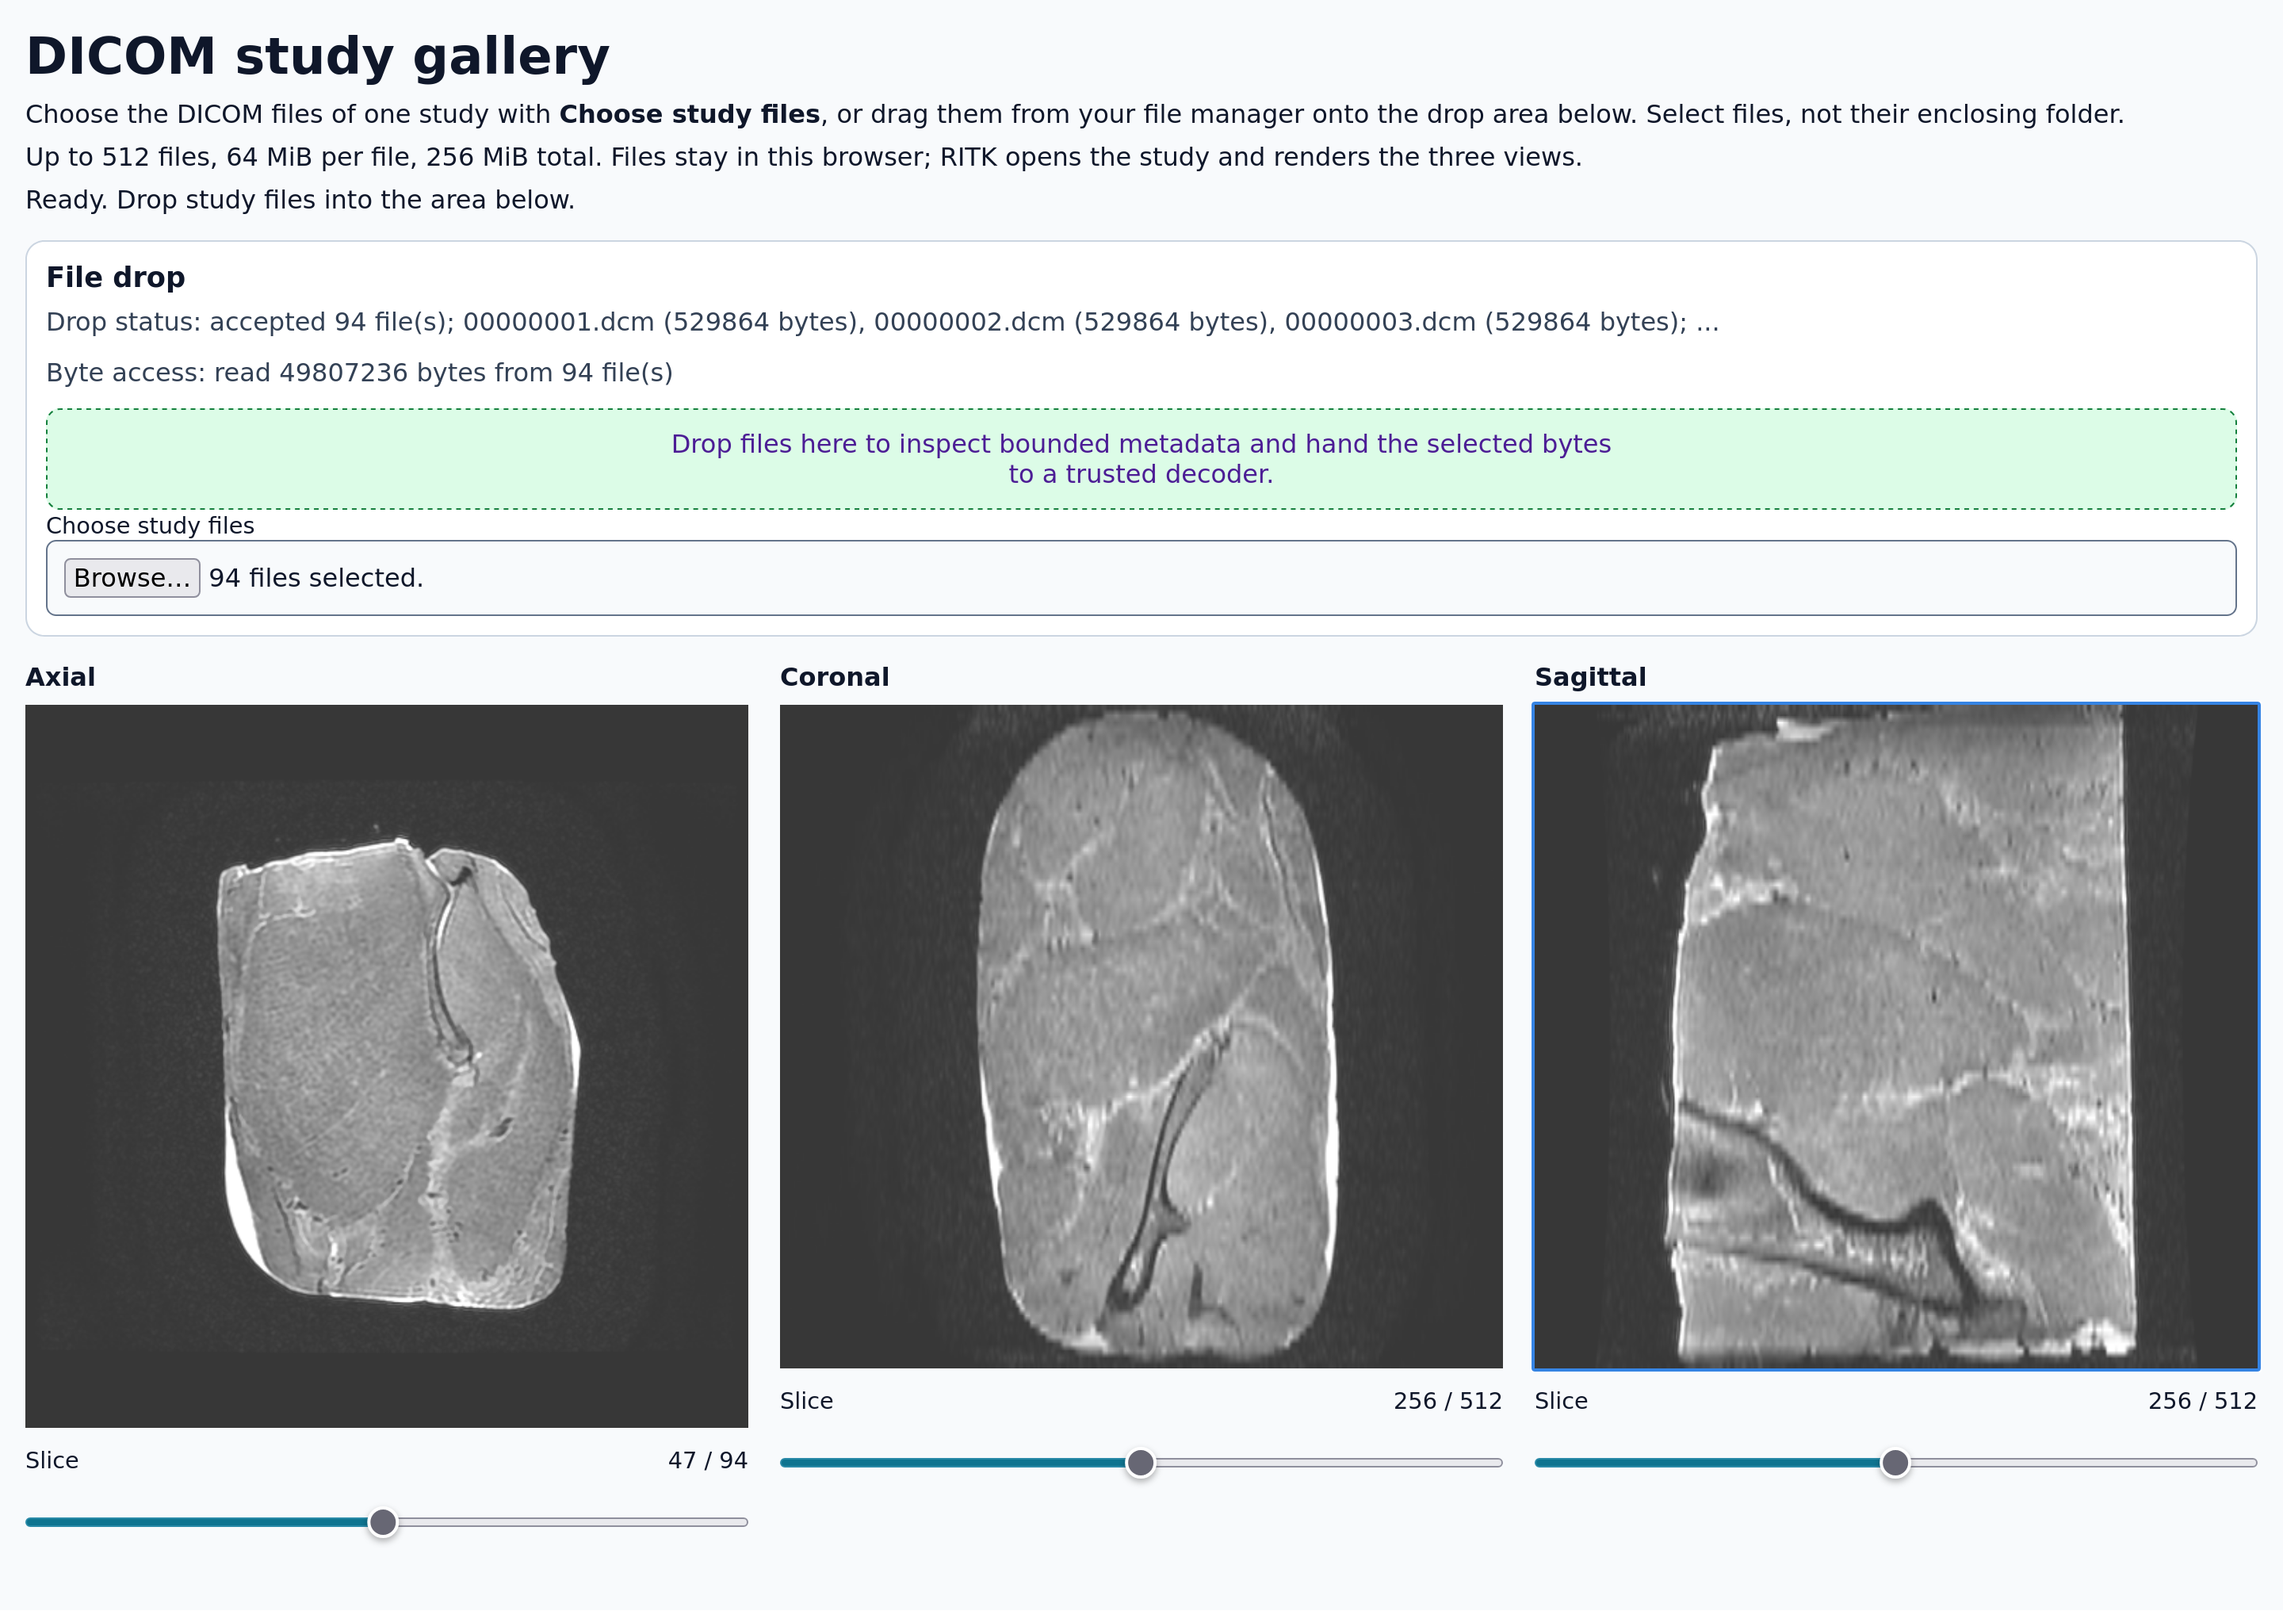
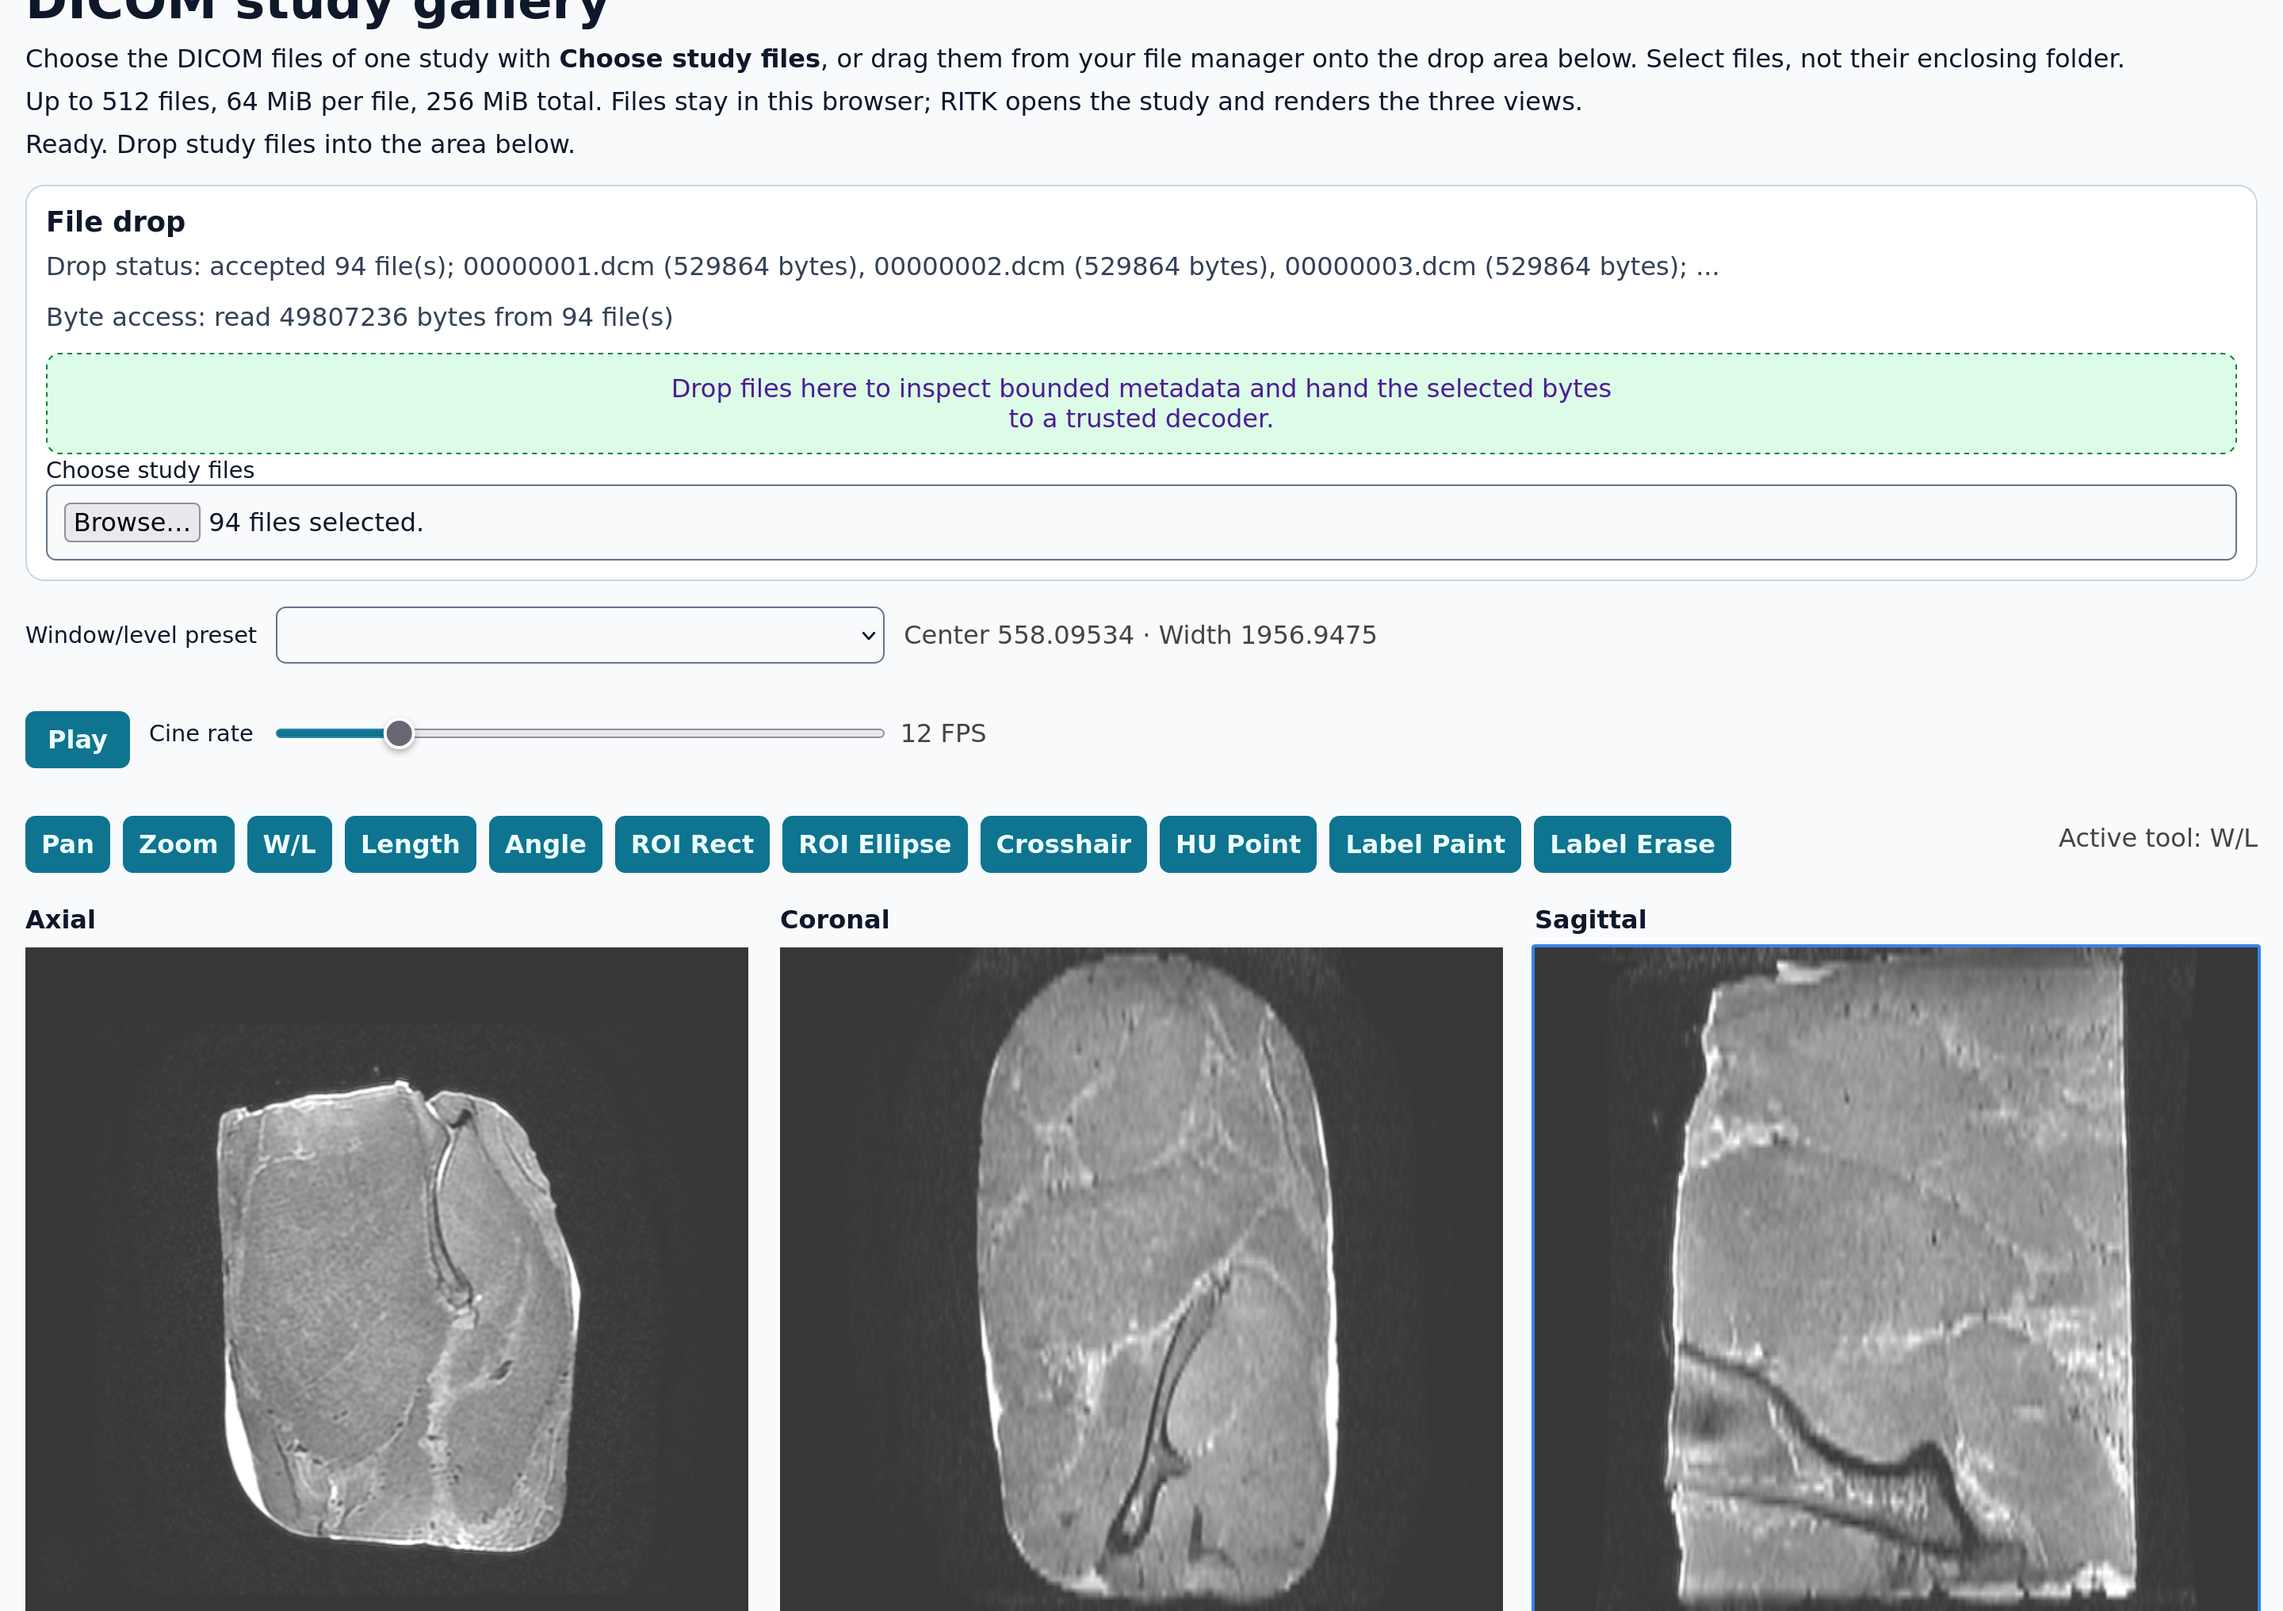
docs(ritk): Refresh hosted MRI galleries
Bind the real 94-file MRI captures and engine diagnostics to hosted run 35395627386, including the current lock revisions and tracked failure screenshots.

Item: RITK-METIS-LOCK-008

Refs: backlog.md#RITK-METIS-LOCK-008

diff --git a/docs/manual/dicom-workflow.md b/docs/manual/dicom-workflow.md
@@ -1408,16 +1408,16 @@ process launch, and OS permission flows remain separate acceptance gates.
 
 The reproducible cross-engine chooser workflow is
 [`metis-browser-dicom.yml`](../../.github/workflows/metis-browser-dicom.yml).
-Hosted run [35133971196](https://github.com/ryancinsight/ritk/actions/runs/35133971196)
-rebuilt RITK at `db390b8616e4cc58f2555f49a816e61eed1fadd1` against Métis
-`88c60a0b6410c0e07700e965bcdbea43b7b20789` and the lock's Moirai revisions
-listed above. Chromium 152 and Firefox 155 each accepted the same 94 saved
-MRI-DIR DICOM files, read 49,807,236 bytes, matched the three exact RGBA
-oracles, and completed four mount cycles. Each cycle records 18 trusted canvas
-actions (12 keyboard, 3 pointer and 3 wheel), focused repeat metadata,
-semantic snapshots, and release of all 18 diagnostic listeners and active input
-sources. The final viewport captures retain the RITK consumer's `Choose study
-files` label and DICOM filter after every remount.
+Hosted run [35395627386](https://github.com/ryancinsight/ritk/actions/runs/35395627386)
+rebuilt RITK at `4bbbe661cb12f2992189ce7a786f6d47529963c5` against Métis
+`5e892245ac52c6455bbb57244fa654e6eb3cc9c1` and the lock's Moirai revision
+`ae282117fd962f4b7c66d722aad9d3c2906320bb`. Chromium 152 and Firefox 155
+each accepted the same 94 saved MRI-DIR DICOM files, read 49,807,236 bytes,
+matched the three exact RGBA oracles, and completed four mount cycles. Each
+cycle records 18 trusted canvas actions (12 keyboard, 3 pointer and 3 wheel),
+focused repeat metadata, semantic snapshots, and release of all 18 diagnostic
+listeners and active input sources. The final viewport captures retain the RITK
+consumer's `Choose study files` label and DICOM filter after every remount.
 
 ![The real MRI study rendered in the hosted Chromium gallery](images/dicom-metis-real-browser-mri-cross-engine-chromium.png)
 
@@ -1425,24 +1425,28 @@ files` label and DICOM filter after every remount.
 
 The [Chromium gallery](images/dicom-metis-real-browser-mri-cross-engine-chromium.png)
 and [Firefox gallery](images/dicom-metis-real-browser-mri-cross-engine-firefox.png)
-are actual viewport captures of the running RITK page and its three canvases.
-The [machine-readable provenance](images/dicom-metis-real-browser-mri-cross-engine.json)
+are actual 2880-pixel-wide viewport captures of the running RITK page and its
+three non-black DICOM canvases. The [machine-readable provenance](images/dicom-metis-real-browser-mri-cross-engine.json)
 binds each capture, trace, canvas RGBA digest, semantic attribute set, browser
-revision, and artifact to run `35133971196`. The Edge consumer record remains
+revision, and artifact to run `35395627386`. The Edge consumer record remains
 the source for the exact 50 trusted slider actions and 18 invalid-number
 probes; the four-cycle matrix deliberately records lifecycle and cross-engine
 input without duplicating that slider run.
 
-Safari 26.6.2 accepted the 94 selected files but rejected the first
-529,864-byte browser read before RITK received a completed batch. The selected
-file returns `NotReadableError` from its original array-buffer, bounded slice
-array-buffer and FileReader reads; a bounded blob-URL stream returns
-`TypeError`. The [WebKit artifact](https://github.com/ryancinsight/ritk/actions/runs/35133971196/artifacts/10463192885)
-and [failure capture](images/dicom-metis-real-browser-mri-cross-engine-webkit.png)
-record the probes and clean WebDriver teardown. Host readability and the
-expected file digest are verified separately; this is a SafariDriver/WebKit
-authorization residual, not a DICOM decoder failure, and browser application
-code cannot grant that access.
+Safari 26.6.2 remains queued in run `35395627386`; its selected-file read result
+will be recorded here when the macOS job completes. The prior Safari evidence
+established the read-path diagnosis: after accepting all 94 files, WebKit denied
+the first 529,864-byte browser read (`NotReadableError` for the original file,
+bounded slice and FileReader, and `TypeError` for the blob-URL stream). That
+authorization residual is separate from RITK's DICOM decoder and cannot be
+fixed by application code granting browser sandbox access.
+
+The same run's Chromium application-window probe accepted the 94-file study
+and rendered partial anatomy, then failed to observe a presented cine slice
+before teardown. The [failure artifact](https://github.com/ryancinsight/ritk/actions/runs/35395627386/artifacts/10567752411)
+and [captured state](images/dicom-metis-real-browser-mri-application-window-failure.png)
+show the stopped viewer and the exact diagnostic; this is an application-window
+presentation residual, separate from the passing four-cycle browser matrix.
 
 RITK owns DICOM scanning, decoding, geometry, clinical presentation and pixel
 assertions; Métis remains the format-neutral host and canvas boundary, and
@@ -1697,15 +1701,14 @@ prove 2D pixel equivalence, hardware acceleration, compositor timing or lower
 memory use.
 
 Hosted run
-[`35133971196`](https://github.com/ryancinsight/ritk/actions/runs/35133971196)
-rebuilt RITK `db390b8616e4cc58f2555f49a816e61eed1fadd1` against the default
-Metis revision `88c60a0b6410c0e07700e965bcdbea43b7b20789`. Its Chromium WebGPU
-job captured the page after the 94-file chooser probes, but RITK reported
-`browser returned no WebGPU adapter` and did not publish a study frame. The
-job therefore records browser capability absence with a real failure PNG and
-clean session teardown; it is not a raster fallback or a GPU presentation
-claim. The uploaded artifact is
-[`chromium-webgpu`](https://github.com/ryancinsight/ritk/actions/runs/35133971196/artifacts/10462807820),
+[`35395627386`](https://github.com/ryancinsight/ritk/actions/runs/35395627386)
+rebuilt RITK `4bbbe661cb12f2992189ce7a786f6d47529963c5` against the lock-pinned
+Métis revision `5e892245ac52c6455bbb57244fa654e6eb3cc9c1`. Its Chromium WebGPU
+job reached the RITK consumer but reported `browser returned no WebGPU adapter`
+and did not publish a study frame. The job therefore records browser capability
+absence with a real failure PNG and clean session teardown; it is not a raster
+fallback or a GPU presentation claim. The uploaded artifact is
+[`chromium-webgpu`](https://github.com/ryancinsight/ritk/actions/runs/35395627386/artifacts/10568306406),
 and its revision-bound trace and PNG remain the evidence for this residual.
 
 ![Hosted Chromium WebGPU capability failure](images/dicom-metis-real-browser-mri-webgpu-failure.png)

diff --git a/backlog.md b/backlog.md
@@ -8,8 +8,8 @@ Unresolved delivery items are kept as executable records. Closed history is inde
 - Scope: advance the six Metis package sources to merged Metis `5e892245ac52c6455bbb57244fa654e6eb3cc9c1` and the fifteen Moirai package sources to `ae282117fd962f4b7c66d722aad9d3c2906320bb`, then replay the real MRI surface and the hosted browser workflow.
 - Acceptance: standalone lock resolves with 61 first-party sources; locked native/WASM checks, strict Clippy, format and provenance gates pass; the 1280×800 real MRI PNG remains byte-identical; browser workflow pins the exact Metis revision and records WebGPU capability/recovery evidence without a raster fallback.
 - Dependency: Metis PR [#267](https://github.com/ryancinsight/metis/pull/267) merged with the hosted Windows gate; Moirai main includes PR [#401](https://github.com/ryancinsight/Moirai/pull/401); DICOM parsing and clinical presentation remain RITK-owned.
[4 lines of base64/hex data omitted]
 
 <a id="RITK-METIS-LOCK-007"></a>
 ## RITK-METIS-LOCK-007 — Advance the current Metis text provider pin [patch]
